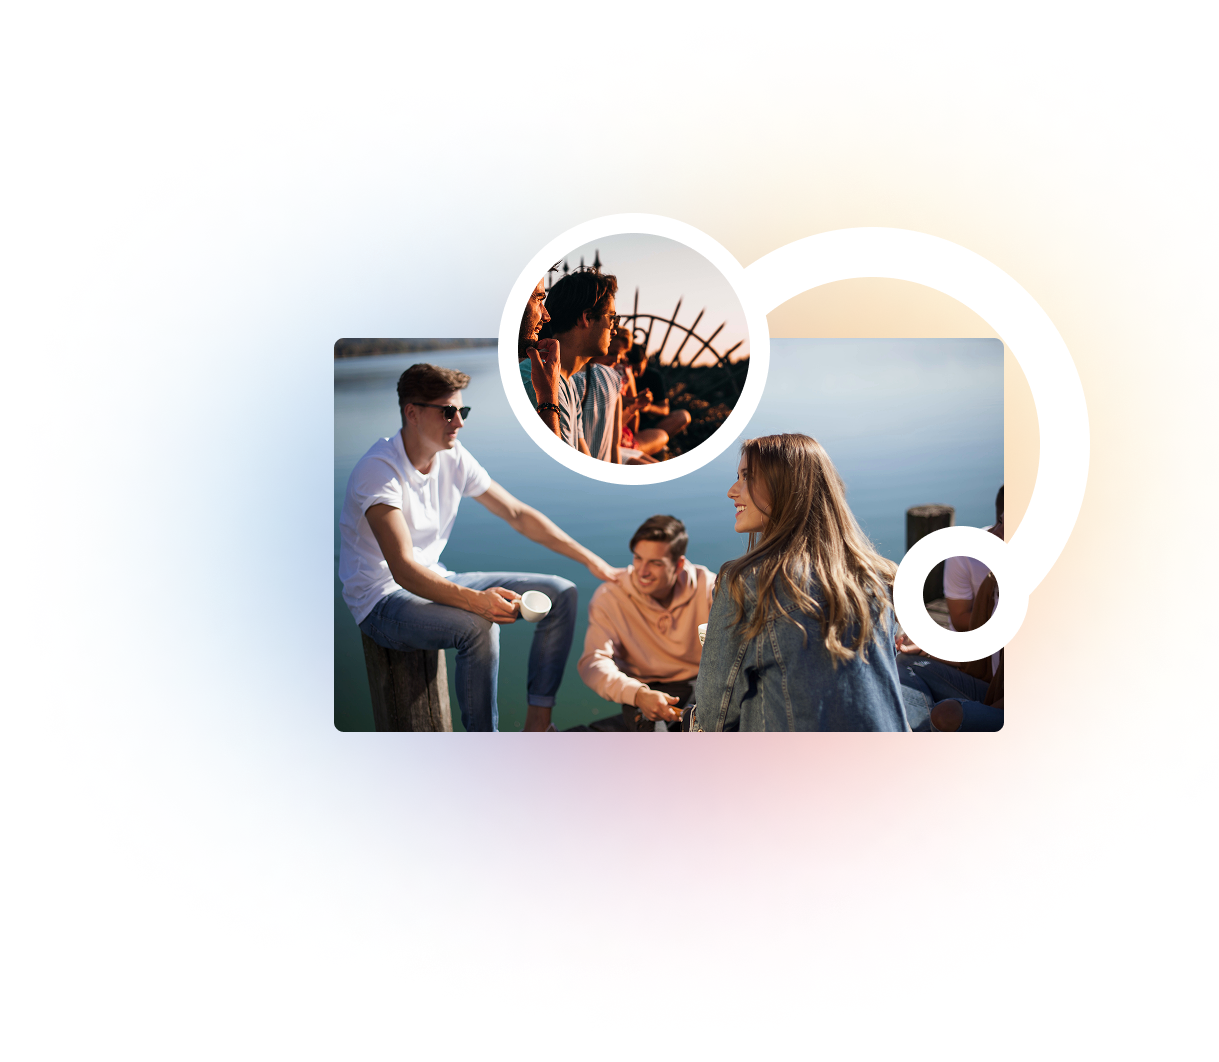
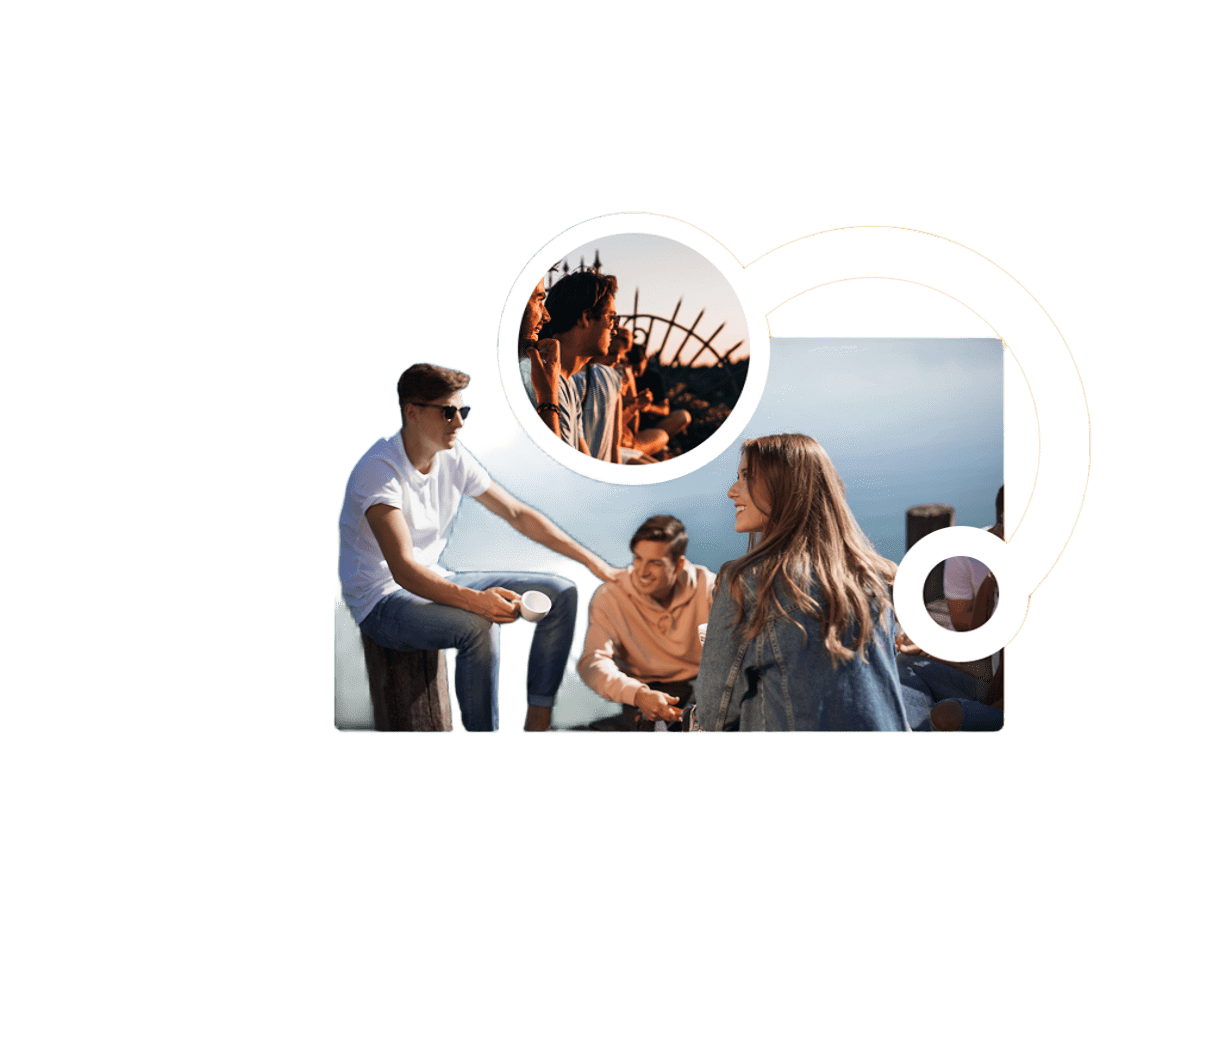
Закоммитил изменения перед pull

diff --git a/src/index.css b/src/index.css
@@ -1,66 +1,66 @@
-@tailwind base;
-@tailwind components;
-@tailwind utilities;
-
-.header {
-  display: flex;
-  margin: 30px;
+* {
+  box-sizing: border-box;
 }
 
-.cards {
+.about-container {
+  /* padding: 30px; */
+  font-family: sans-serif;
+  border-radius: 10px;
   display: flex;
-  justify-content: space-evenly;
-  align-items: center;
   width: 100%;
-
+  justify-content: space-between;
+  padding-left: 100px;
 }
 
-  /* display: flex;
-  justify-content: center;
-  list-style-type: none;
-  gap: 50px;
-  padding-top: 72px;
-  cursor: pointer;
-  transition: 0, 4s;
-} */
-
-li {
-  font-weight: 300;
+.about-container h2 {
+  font-size: 24px;
+  margin-bottom: 50px;
+  font-weight: 900;
 }
 
-li:hover {
-  transition: 0, 4s;
+.about-container h3 {
+  font-size: 20px;
+  margin-bottom: 25px;
+  color: black;
+  font-weight: 900;
+}
+
+.about-container p {
+  font-size: 16px;
+  line-height: 1.6;
+  color: #333;
+  margin-bottom: 25px;
+  
+}
+
+.tak {
+  background-color: #f5325c;
   color: white;
+  border: none;
+  padding: 10px 20px;
+  font-size: 14px;
+  border-radius: 5px;
+  cursor: pointer;
+  transition: background 0.3s;
 }
 
-.Happy {
-  font-weight: bold;
-  margin-right: 60px;
+.tak:hover {
+  background-color: #d1224a;
 }
 
-.card {
-display: flex;
-flex-direction: column;
-align-items: center;
+.abt {
+  width: 40%;
 }
 
-.text {
-  padding: 15px;
+.photo-block {
+  width: 90%;
+  display: flex;
+  justify-content: center;
+  align-items: center;
 }
 
-
-h2 {
-  font-size: 30px;
+.main-photo {
+  width: 90%;
+  height: auto;
+  object-fit: contain;
 }
-
-h3 {
-  font-size: 25px;
-}
-
-p {
-  font-size: 18px;
-}
-.Asema {
-    display: flex;    margin: auto;
-}
-

diff --git a/src/assets/component/sanjar/Sanjar.jsx b/src/assets/component/sanjar/Sanjar.jsx
@@ -1,5 +1,31 @@
 import React from "react";
+import Sanj from "../../img/sanjar.png";
 
 export const Sanjar = () => {
-  return <div>Sanjar</div>;
+  return (
+    <div>
+      <div className="about-container">
+        <div className="abt">
+          <h2>О питомнике Happy Pet</h2>
+          <h3>Мы - команда мечтателей</h3>
+          <p>
+            Нашей главной специализацией является производство клематисов. В
+            нашей коллекции имеется более 450 видов и сортов клематиса, но для
+            коммерческих целей мы производим только немногим более 280
+            экземпляров клематиса Ломоноса - клематисы с большим и маленьким
+            цветком, а также стелющиеся формы клематиса в широком диапазоне.
+          </p>
+          <p>
+            У нас также есть дополнительная специальность вьющиеся растения
+            которые могут расти в саду в польских климатических условиях; мы
+            производим более сотни видов и сортов таких растений.
+          </p>
+          <button className="tak">Читать больше →</button>
+        </div>
+        <div className="photo-block">
+          <img src={Sanj} className="main-photo" alt="" />
+        </div>
+      </div>
+    </div>
+  );
 };

diff --git a/src/App.jsx b/src/App.jsx
@@ -1,20 +1,17 @@
-
 import { Hanif } from "./assets/component/hanif/Hanif";
-import { Section } from "./assets/component/asemaK/Section"
-import { Asema } from "./assets/component/asema/Asema"
-
+import { Section } from "./assets/component/asemaK/Section";
+import { Asema } from "./assets/component/asema/Asema";
+import { Sanjar } from "./assets/component/sanjar/Sanjar";
 
 function App() {
-
   return (
     <>
       <Hanif />
-    <Section />
+      <Section />
       <Asema />
+      <Sanjar />
     </>
   );
 }
 
 export default App;
-      
-
